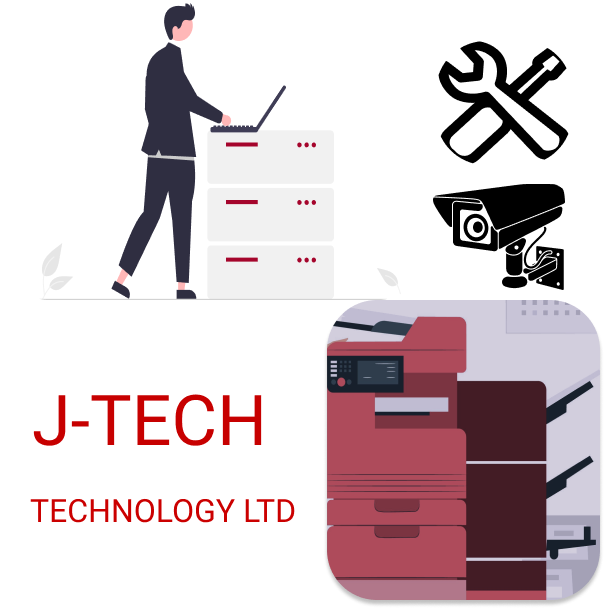
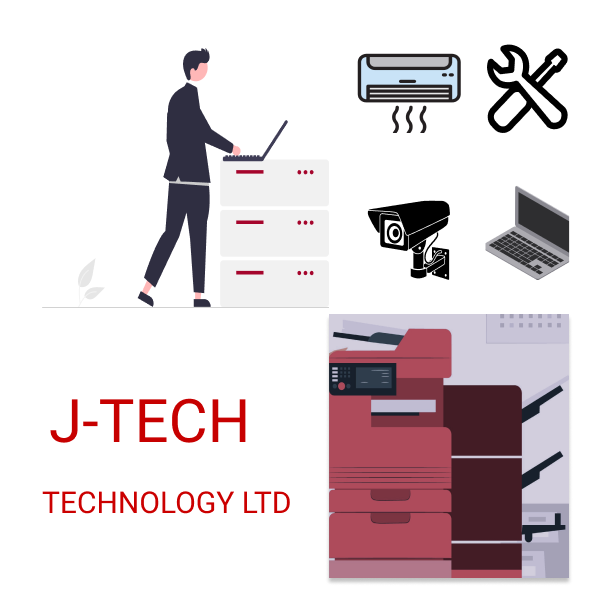
cctv ac lap

diff --git a/components/Services.js b/components/Services.js
@@ -13,37 +13,37 @@ export default function Services() {
                 <div className={servicesStyles.listItem}>
                     <h5>Services activities related to copying, printing and scanning</h5>
                     <span className='w-50 mb-3 border border-bottom border-secondary'></span>
-                    <Image src="/images/4025190.jpg" alt='printing' width={400} height={280} />
+                    <Image src="/images/4025190.jpg" alt='printing' width={400} height={280} className='border border-danger rounded' />
                 </div>
 
                 <div className={servicesStyles.listItem}>
                     <h5>Repair of machinery, tools and electrical equipments</h5>
                     <span className='w-50 mb-3 border border-bottom border-secondary'></span>
-                    <Image src="/images/machinetools.jpg" alt='printing' width={400} height={280} />
+                    <Image src="/images/machinetools.jpg" alt='printing' width={400} height={280} className='border border-danger rounded' />
                 </div>
 
                 <div className={servicesStyles.listItem}>
                     <h5>Repair of electronic devices and optical equipments</h5>
                     <span className='w-50 mb-3 border border-bottom border-secondary'></span>
-                    <Image src="/images/rack.jpg" alt='printing' width={400} height={280} />
+                    <Image src="/images/rack.jpg" alt='printing' width={400} height={280} className='border border-danger rounded' />
                 </div>
 
                 <div className={servicesStyles.listItem}>
-                    <h5>Repair of printers, computers and peripheral equipments</h5>
+                    <h5>Repair of printers, laptops, desktops and peripheral equipments</h5>
                     <span className='w-50 mb-3 border border-bottom border-secondary'></span>
-                    <Image src="/images/motherboard.jpg" alt='printing' width={400} height={280} />
+                    <Image src="/images/computerrepair.gif" alt='printing' width={400} height={280} className='border border-danger rounded' />
                 </div>
 
                 <div className={servicesStyles.listItem}>
                     <h5>Repair of communication equipments and consumer electronics</h5>
                     <span className='w-50 mb-3 border border-bottom border-secondary'></span>
-                    <Image src="/images/switch.jpg" alt='printing' width={400} height={280} />
+                    <Image src="/images/switch.jpg" alt='printing' width={400} height={280} className='border border-danger rounded' />
                 </div>
 
                 <div className={servicesStyles.listItem}>
-                    <h5>Installation of industrial machinery and equipments</h5>
+                    <h5>Installation of air conditioners, CCTV cameras, and industrial machinery</h5>
                     <span className='w-50 mb-3 border border-bottom border-secondary'></span>
-                    <Image src="/images/installation2.jpg" alt='printing' width={400} height={280} />
+                    <Image src="/images/cctvac.gif" alt='printing' width={400} height={280} className='border border-danger rounded' />
                 </div>
 
             </div>

diff --git a/components/Footer.js b/components/Footer.js
@@ -27,7 +27,7 @@ export default function Footer() {
             <div className={`${footerStyles.rightPart} col-12 col-sm-6`}>
                 <small>
                     <blockquote>~ Good customer service costs less than bad customer service. ~
-                        <br /><i>Sally Gronow</i></blockquote>
+                        <br /><i className='text-center'>Sally Gronow</i></blockquote>
                 </small>
 
                 <div className={footerStyles.socialIcons}>
